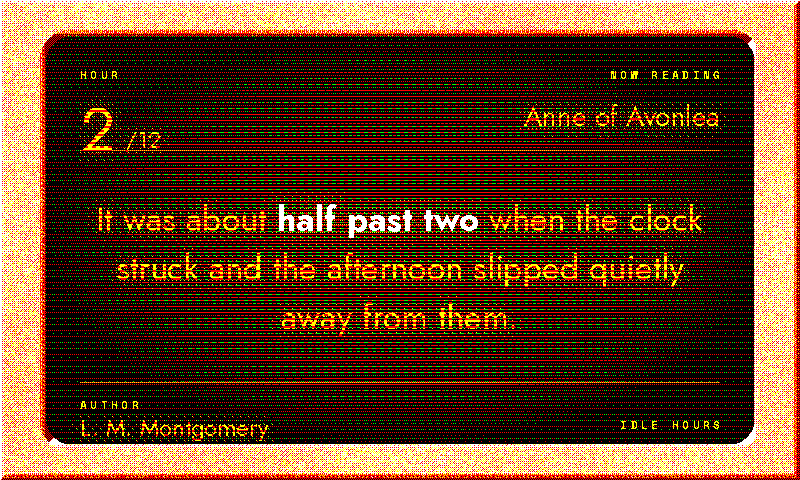
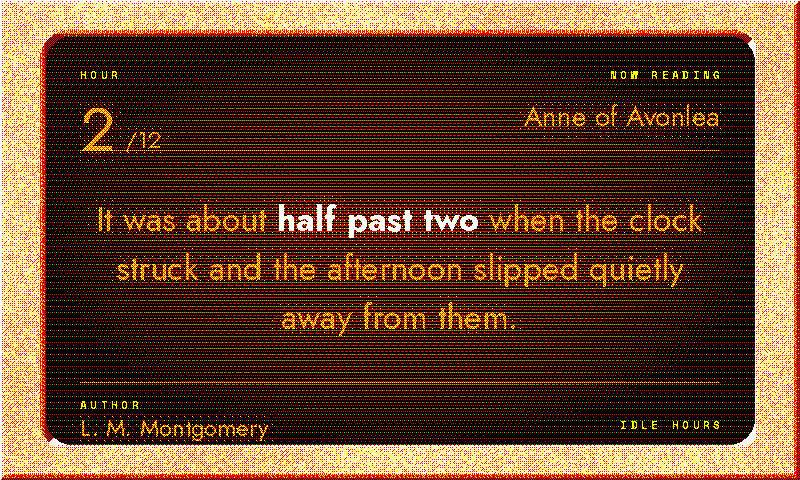
Paint the inclusive screen boundary in the bakelite tube
_BAKELITE_SCREEN is an inclusive rect everywhere else it is used: PIL's
rounded_rectangle fills both endpoints of its bounding box when building the
mask, and _bakelite_bevel_face measures depth outward from x1 / y1 on the same
assumption. Only the tube's paint loop treated it as half-open, so the mask's
last column and row were classified as screen and never painted -- and the
bevel pass then skipped them for exactly that reason, leaving a 1px line of
moulding inside the CRT along its right and bottom edges on every render.

Measured before and after on identical input: all 1034 changed pixels lie on
x == 754 or y == 444, and izakaya / abyssal / metro are byte-identical, so the
fix is confined to the boundary. Golden fixture and README preview regenerated
to match.

The existing test asserted that nothing paints *outside* the screen, which is
the opposite mistake and could not see this; nor could the eye at panel
distance, since the stray line sits exactly where the recess bevel puts its
white highlight and read as part of the moulding. Fenced now in the strongest
form -- every pixel the mask calls screen must hold a tube ink, checked over
the whole mask rather than at sampled points -- and verified by reintroducing
the half-open range.

Reported by Codex review on #225.

Claude-Session: https://claude.ai/code/session_018Fu1MudBBRD8JPmoSyoWwd

diff --git a/tests/test_render_quote_themes.py b/tests/test_render_quote_themes.py
@@ -1742,6 +1742,38 @@ class TestBakeliteTube:
             "the tube's centre is not meaningfully brighter than its corner"
         )
 
+    def test_every_masked_pixel_is_tube_ink(self):
+        """The mask is authoritative: whatever it calls screen must be painted.
+
+        PIL's ``rounded_rectangle`` fills *both* endpoints of its bounding box,
+        but the paint loop ran ``range(x0, x1)`` — so the mask's last column and
+        row were classified as screen and never painted. The bevel pass then
+        skipped them for exactly the same reason, and every render carried a
+        1 px line of moulding *inside* the CRT along its right and bottom edges.
+
+        The complement test below could not see it: it checks that nothing
+        paints outside the screen, and this is the opposite mistake. Nor could
+        the eye at panel distance — the stray line sits precisely where the
+        recess bevel puts its white highlight, so it read as part of the
+        moulding. Found by review on #225; fenced here in the strongest form,
+        over the whole mask rather than at sampled points.
+        """
+        image = self._tube()
+        pixels = image.load()
+        mask = rq._bakelite_screen_mask().load()
+        tube_inks = {rq.SPECTRA6[name] for name in ("black", "red", "green")}
+        stray = [
+            (x, y)
+            for y in range(480)
+            for x in range(800)
+            if mask[x, y] >= 128 and pixels[x, y] not in tube_inks
+        ]
+        assert not stray, (
+            f"{len(stray)} pixels inside the screen mask were never painted "
+            f"(first at {stray[0]}) — they keep the moulding underneath, which "
+            "draws a line of slab colour inside the CRT"
+        )
+
     def test_nothing_paints_outside_the_rounded_screen(self):
         pixels = self._tube().load()
         for x, y in ((0, 0), (799, 0), (0, 479), (799, 479), (48, 38), (400, 20)):

diff --git a/idle_hours/render_quote.py b/idle_hours/render_quote.py
@@ -22131,9 +22131,17 @@ def _bakelite_paint_tube(image: Image.Image, screen: Image.Image) -> None:
     # what makes the line structure legible, and it also lets the red:green
     # ratio land exactly where the tube is brightest. The vignette is then
     # carried entirely by thinning those rows toward the rim.
-    for y in range(y0, y1):
+    #
+    # Both ranges are inclusive of the far bound, because ``_BAKELITE_SCREEN``
+    # is an inclusive rect: PIL's ``rounded_rectangle`` fills both endpoints of
+    # its bounding box, and ``_bakelite_bevel_face`` measures depth outward from
+    # ``x1`` / ``y1`` on the same assumption. A half-open ``range(x0, x1)`` left
+    # the mask's last column and row unpainted while still classifying them as
+    # screen — so the bevel pass skipped them too, and every render carried a
+    # 1 px line of moulding inside the CRT along its right and bottom edges.
+    for y in range(y0, y1 + 1):
         lit = (y - y0) % _BAKELITE_PITCH == 0
-        for x in range(x0, x1):
+        for x in range(x0, x1 + 1):
             if sc_px[x, y] < 128:
                 continue
             pixels[x, y] = black
